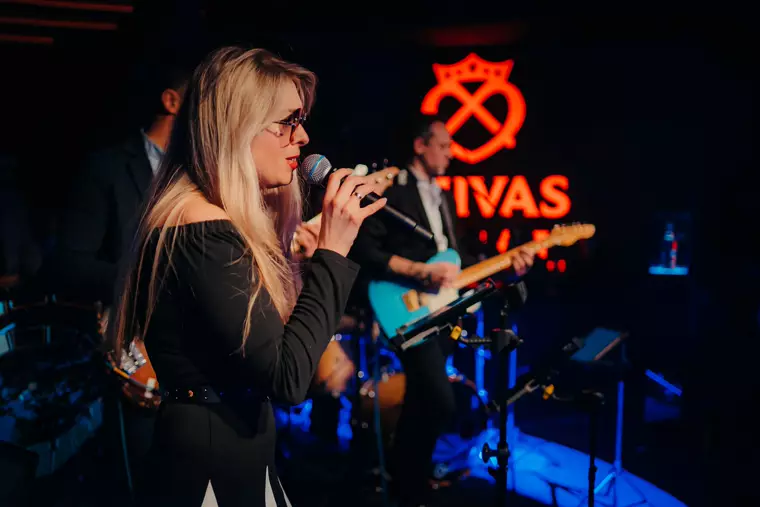
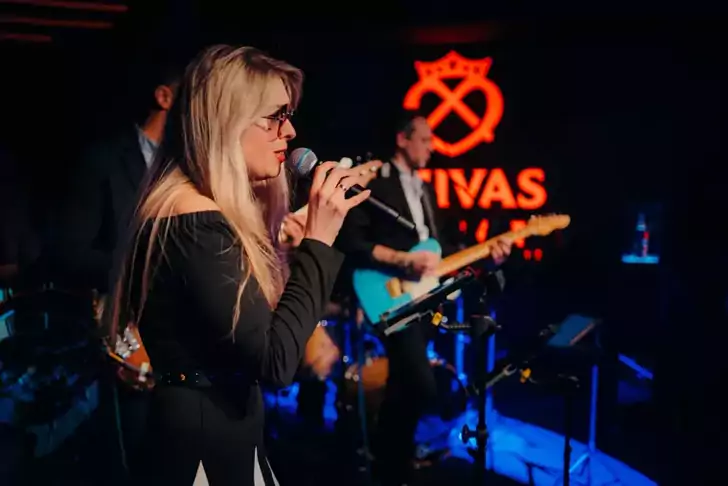
perf(mobile): self-host fonts, lighter mobile hero, snappier entrance
Targets the throttled-mobile PageSpeed metrics (FCP/LCP/SI):
- Self-host Montserrat as a single 22KB variable subset (Latin+Polish,
  weights 400-700), removing the Google Fonts origin entirely. No more
  third-party DNS/TCP/TLS handshake or 100KB+/weight subsets competing
  for slow-4G bandwidth; Krona One was already self-hosted.
- Serve an 18KB phone-sized hero (vs 42KB) under <=820px with a matching
  responsive preload, so the above-the-fold paints sooner on mobile while
  desktop keeps the full-res image.
- Shorten the hero entrance (0.7s/26px -> 0.4s/14px) so the view reaches
  visual completeness faster (Speed Index).
- Recompress two below-fold images (payload hygiene).

diff --git a/src/styles/global.css b/src/styles/global.css
@@ -1,9 +1,13 @@
 /* === FONTS ===
-   Montserrat is loaded non-render-blocking from <head> in Base.astro (a CSS
-   @import here would chain and block first paint). */
+   All fonts are self-hosted (no third-party origin) so there is no extra
+   DNS/TCP/TLS handshake competing for bandwidth on a throttled connection. */
 
 /* Krona One - display font (matches Framer export) */
 @font-face { font-family:'Krona One'; src:url('/fonts.gstatic.com/s/kronaone/v15/jAnEgHdjHcjgfIb1ZcUCNI-h3cWkWg.woff2') format('woff2'); font-weight:400; font-display:swap; }
+
+/* Montserrat - body/UI font. One subset variable file (weights 400-700,
+   Latin + Polish only) replaces Google Fonts' per-weight subsets. */
+@font-face { font-family:'Montserrat'; src:url('/fonts/montserrat/montserrat-var.woff2') format('woff2'); font-weight:400 700; font-style:normal; font-display:swap; }
 
 /* === CSS VARS === */
 :root {
@@ -94,12 +98,14 @@ html { scrollbar-width: thin; scrollbar-color: rgba(237, 219, 194, 0.28) transpa
 
 /* Hero entrance is CSS-only (no JS dependency) and animates transform only -
    the hero text paints immediately at full opacity, so it can be the LCP
-   element without waiting for GSAP. Transform never affects layout (no CLS). */
+   element without waiting for GSAP. Transform never affects layout (no CLS).
+   Kept short and small so the above-the-fold view reaches visual completeness
+   fast (a long entrance inflates Speed Index). */
 @media (prefers-reduced-motion: no-preference) {
-  [data-hero] { animation: hero-in 0.7s cubic-bezier(0.2, 0.7, 0.2, 1) both; }
-  .hero-actions[data-hero] { animation-delay: 0.12s; }
+  [data-hero] { animation: hero-in 0.4s cubic-bezier(0.2, 0.7, 0.2, 1) both; }
+  .hero-actions[data-hero] { animation-delay: 0.08s; }
 }
-@keyframes hero-in { from { transform: translateY(26px); } to { transform: none; } }
+@keyframes hero-in { from { transform: translateY(14px); } to { transform: none; } }
 
 /* === FLOATING NAV === */
 #main-nav {